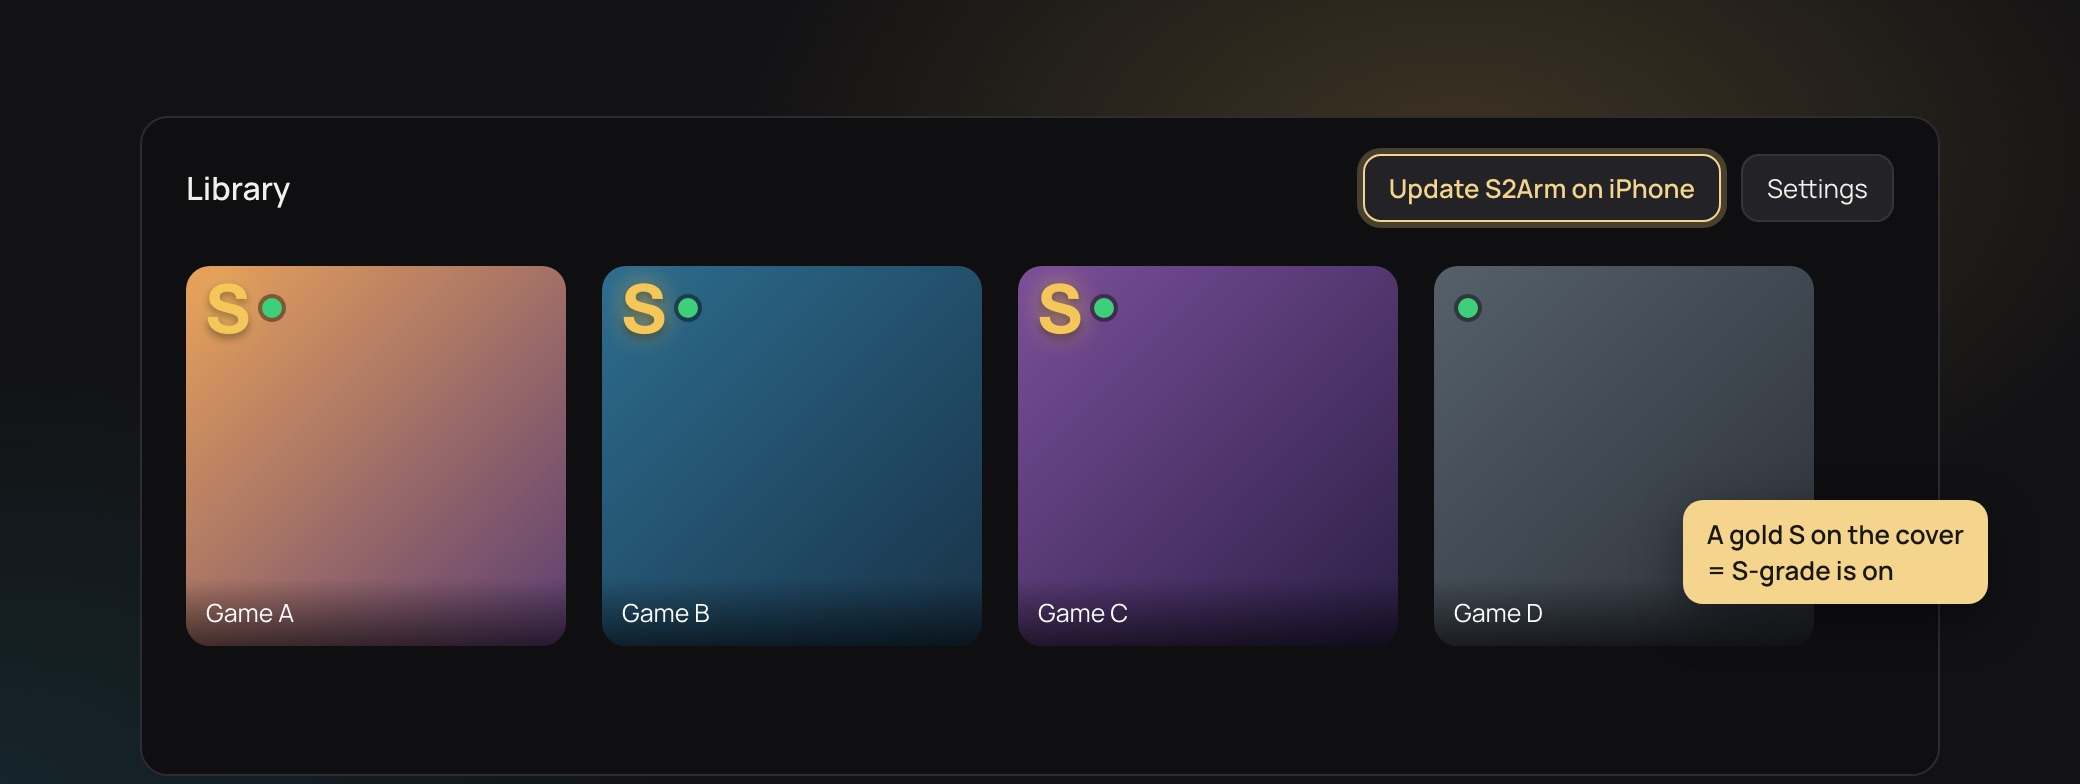
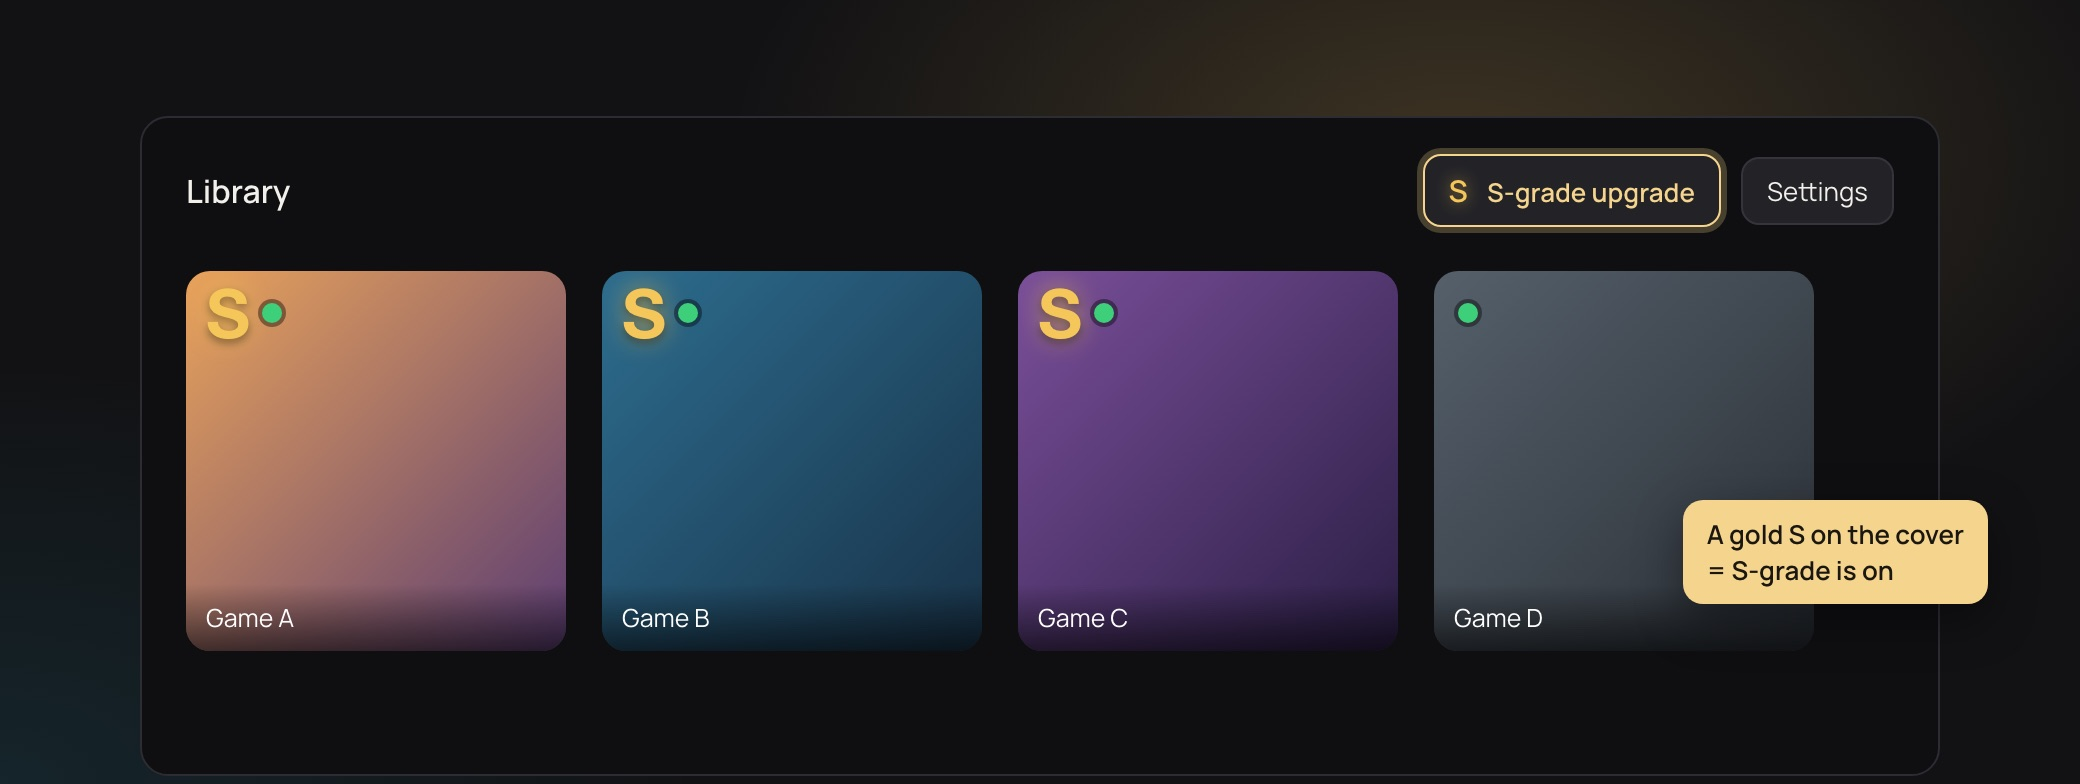
新功能大窗「老游戏也能用」：怎么用改指 Mac 游戏库顶部「S 级优化升级」入口（D2R 线 11-14 落地），示意图按钮同步；Windows 仍走「更新 iPhone 上的 S2Arm」

diff --git a/docs/site/s-grade.html b/docs/site/s-grade.html
@@ -26,7 +26,7 @@ footer{margin-top:36px;color:var(--muted);font-size:14px}footer a{color:var(--cr
 <section><img src="feature/sgrade-1.jpg" alt="" loading="lazy"><div class="t"><div class="k">S 级优化 · 自动配好</div><h2>出包时，自动带上社区补丁和金手指</h2>
 <div class="g"><div><b class="h">是什么</b><p>S2Arm 按你的游戏版本，从社区补丁库里找能用的<b>满屏补丁、帧率补丁和金手指</b>，出包时一起打进去。</p></div><div><b class="h">怎么用</b><p>不用自己找、自己装。照常点「开始出包」就行，命中的会自动打进包。</p></div><div><b class="h">在哪用</b><p>选一款去出包：出包页上金色的「<b>S 级优化</b>」卡片列出命中的每一项和作者，右边的「<b>出包时打入</b>」默认勾着，不要可以取消。</p></div></div></div></section>
 <section><img src="feature/sgrade-4.jpg" alt="" loading="lazy"><div class="t"><div class="k">S 级优化 · 老游戏也能用</div><h2>已经导出的游戏，不用重新出包</h2>
-<div class="g"><div><b class="h">是什么</b><p>已经导出到 Mac 和 iPhone 上的游戏，<b>更新 S2Arm 后自动补上</b> S 级优化：满屏、帧率、金手指。</p></div><div><b class="h">怎么用</b><p>Mac：下次打开这款就带上。iPhone：在 Mac 或 Windows 启动器里点<b>更新 iPhone 上的 S2Arm</b>（自己签名的点<b>导出新版 S2Arm</b>），只换程序，游戏不用重推。</p></div><div><b class="h">在哪用</b><p>Mac 和 iPhone 的游戏库里，封面左上角<b>亮起金色 S</b> 的就是已带上的；出包时取消了「出包时打入」的不亮。</p></div></div></div></section>
+<div class="g"><div><b class="h">是什么</b><p>已经导出到 Mac 和 iPhone 上的游戏，<b>更新 S2Arm 后自动补上</b> S 级优化：满屏、帧率、金手指。</p></div><div><b class="h">怎么用</b><p>Mac：游戏库顶部点<b>S 级优化升级</b>，Mac 和 iPhone 的游戏都在这升级。Windows：点<b>更新 iPhone 上的 S2Arm</b>。只换程序，存档不动。</p></div><div><b class="h">在哪用</b><p>Mac 和 iPhone 的游戏库里，封面左上角<b>亮起金色 S</b> 的就是已带上的；出包时取消了「出包时打入」的不亮。</p></div></div></div></section>
 <section><img src="feature/sgrade-2.jpg" alt="" loading="lazy"><div class="t"><div class="k">S 级优化 · 满屏与帧率</div><h2>画面铺满，帧率翻倍</h2>
 <div class="g"><div><b class="h">是什么</b><p><b>满屏补丁</b>按你的屏幕比例铺满，不留黑边、人物不变形；<b>帧率补丁</b>让 30 帧的游戏跑 60，高刷屏能到 120。</p></div><div><b class="h">怎么用</b><p>命中的满屏、帧率补丁默认开着（没有同版本满屏补丁会从别的版本移植），帧率自动挑最高一档。闪退了下次自动关掉那一项。</p></div><div><b class="h">在哪用</b><p>想调档或关掉：iPhone / iPad 在游戏里点<b>左上角齿轮 → S 级优化</b>；Mac 在游戏库选中这款，点齿轮「<b>启动设置</b>」。</p></div></div></div></section>
 <section><img src="feature/sgrade-3.jpg" alt="" loading="lazy"><div class="t"><div class="k">S 级优化 · 金手指</div><h2>金手指，进游戏逐条打开</h2>
